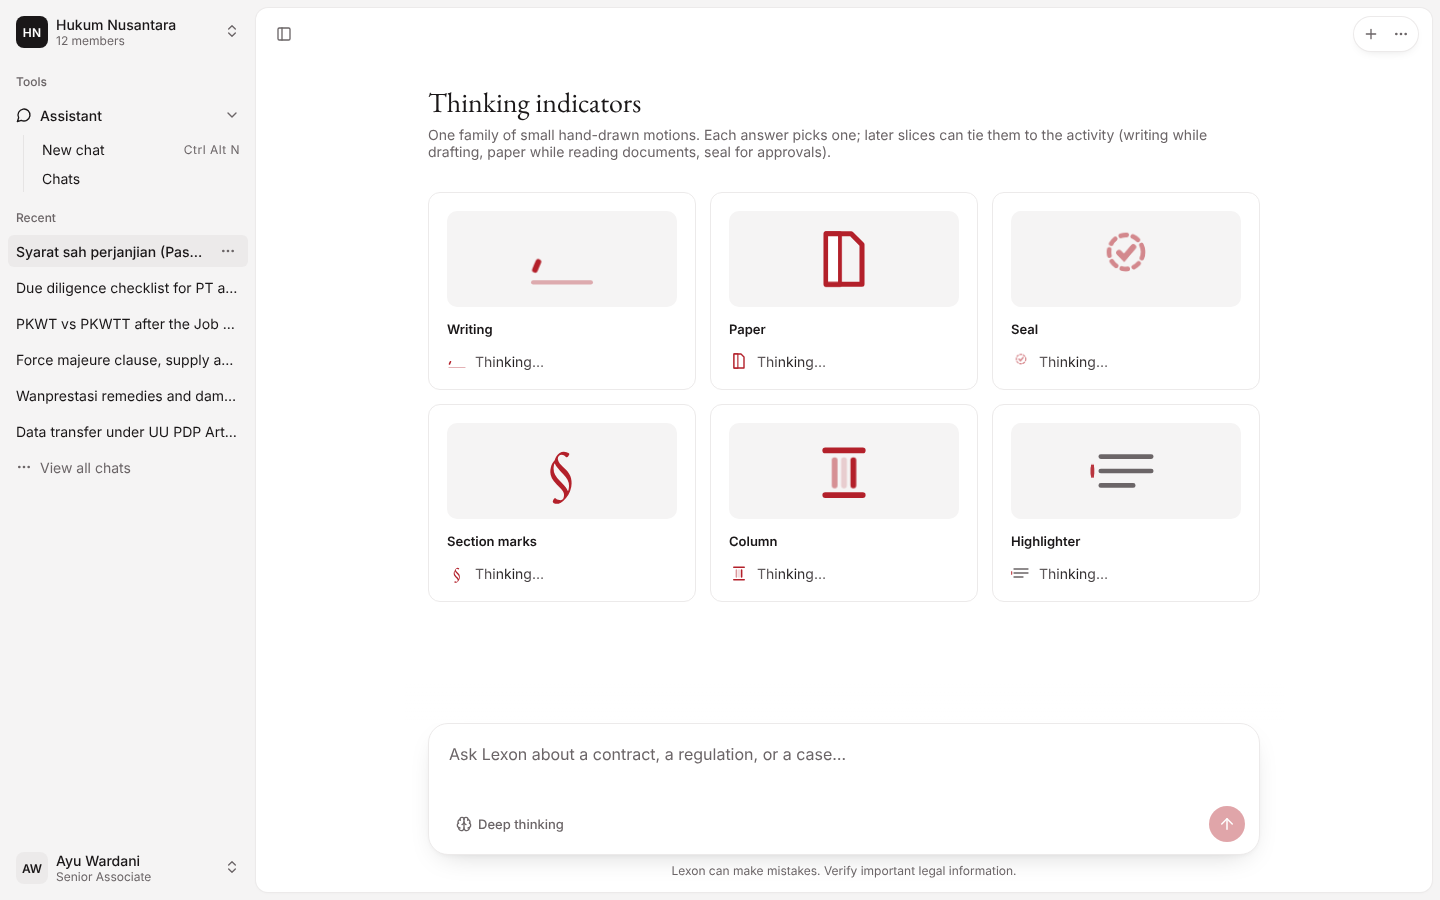
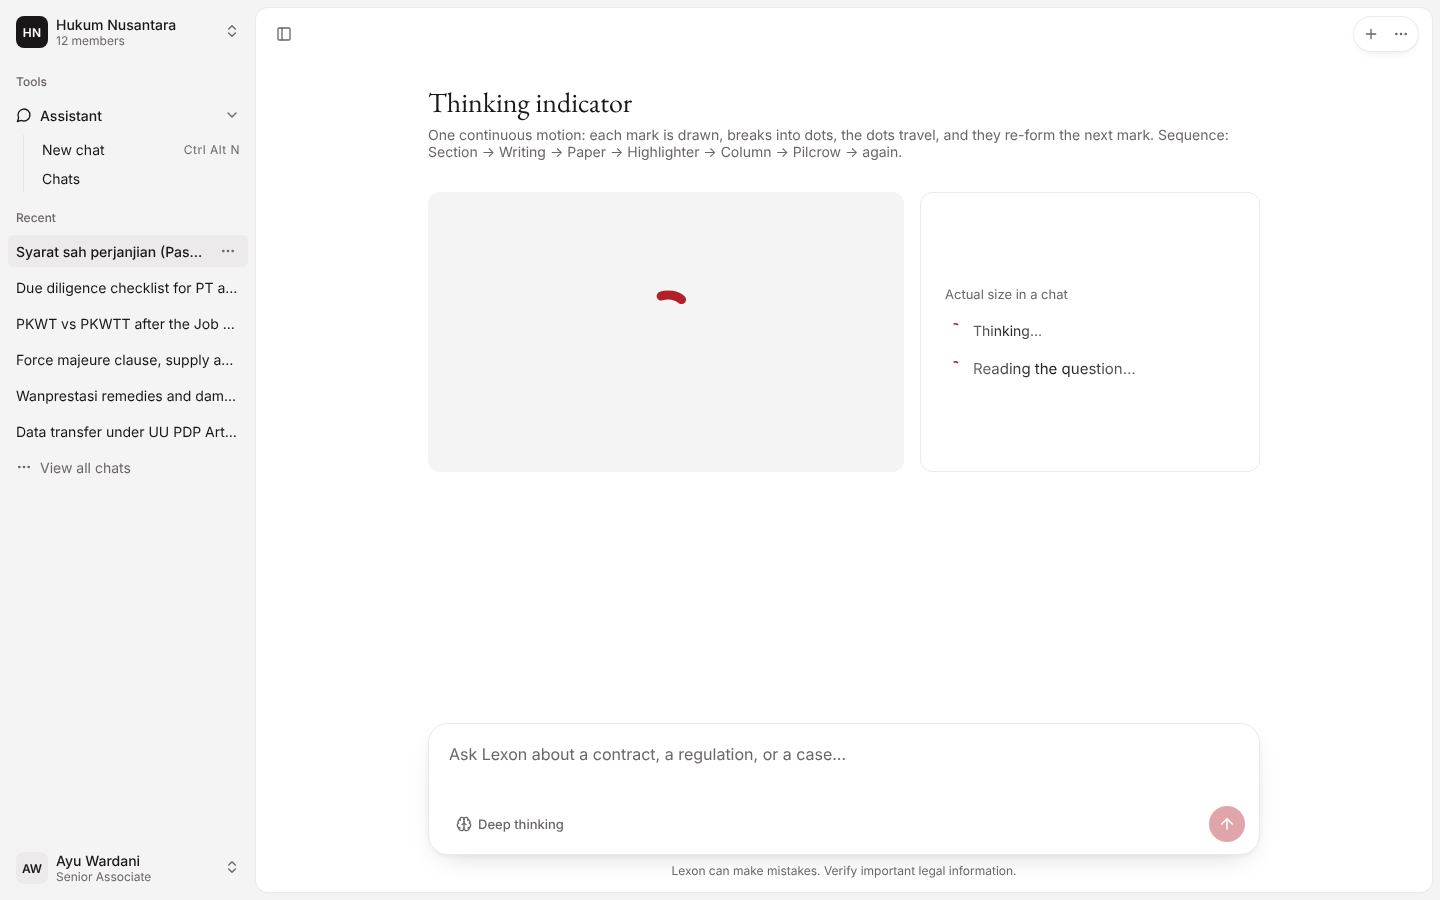
F4.1 prototype rev 7: morphing thinking indicator
Claude-Session: https://claude.ai/code/session_01XeskNDwAETUV7tAfJw72N6

diff --git a/design-drafts/f4.1-prototype/source/proto.src.html b/design-drafts/f4.1-prototype/source/proto.src.html
@@ -97,6 +97,11 @@ body.shot .stage{border-radius:0;box-shadow:none}
 @keyframes spin{to{transform:rotate(360deg)}}
 @keyframes dash{0%{stroke-dasharray:1 40;stroke-dashoffset:0}50%{stroke-dasharray:22 40;stroke-dashoffset:-6}100%{stroke-dasharray:22 40;stroke-dashoffset:-32}}
 
+
+/* ===== Lexon morphing loader: shapes dissolve into dots that travel and re-form the next shape ===== */
+.lq{display:inline-flex;width:20px;height:20px;flex:none;color:var(--redtext)}
+.lq.xl{width:120px;height:120px}
+.lq svg{width:100%;height:100%;overflow:visible}
 /* ===== Lexon loader family (owner request): hand-drawn feel, one per turn ===== */
 .lx{--c:var(--redtext);display:inline-flex;align-items:center;justify-content:center;width:20px;height:20px;flex:none;position:relative;color:var(--c)}
 .lx.xl{width:72px;height:72px}
@@ -263,6 +268,54 @@ function composer({deep=false,streaming=false,text='',mobile=false}={}){
  return `<div class="cw" ${mobile?'style="padding:10px 14px 12px"':''}><div class="comp"><label for="cmp" style="position:absolute;width:1px;height:1px;overflow:hidden;clip:rect(0 0 0 0)">Message</label><textarea id="cmp" rows="2" placeholder="${streaming?'Lexon is answering…':'Ask Lexon about a contract, a regulation, or a case…'}">${text}</textarea><div class="crow"><span style="position:relative;display:inline-flex"><button class="pill" aria-pressed="${deep}">${sv('brain')}Deep thinking</button>${deep?'<span class="tip" role="tooltip" style="top:40px;left:0">Takes longer and uses more of your budget</span>':''}</span>${send}</div></div><div class="disc">Lexon can make mistakes. Verify important legal information.</div></div>`;
 }
 
+
+const LQ_SCENES=[
+ {n:'Section',p:['M12.6 4.6c-1.4-1.3-4.8-1-4.8 1.2 0 2.7 5.6 2.5 5.6 5.3 0 1.5-1.4 2.3-2.9 2.3','M7.4 15.4c1.4 1.3 4.8 1 4.8-1.2 0-2.7-5.6-2.5-5.6-5.3 0-1.5 1.4-2.3 2.9-2.3'],draw:900},
+ {n:'Writing',p:['M2 16.5h16','M2.5 13c2-5 3.6-7.4 4.6-5.6.9 1.6-1 5-.1 5.6 1 .7 2.6-3.6 4-3.4 1.2.2.3 3 1.4 3.1 1.3.1 2.3-2.6 4.9-2.7'],dim:[0],draw:1200},
+ {n:'Paper',p:['M5 3h7l3 3v11H5z','M12 3v3h3','M7.5 9.2h5','M7.5 11.7h5','M7.5 14.2h3.5'],draw:1000},
+ {n:'Highlighter',p:['M3 6h14','M3 10h14','M3 14h9'],dim:[0,1,2],accent:'M3 10h14',draw:700},
+ {n:'Column',p:['M2.8 6.4 10 2.6l7.2 3.8','M3.6 7.6h12.8','M6.3 9.2v5.9','M10 9.2v5.9','M13.7 9.2v5.9','M4.3 16.3h11.4','M2.8 17.8h14.4'],shimmer:[2,3,4],draw:1000},
+ {n:'Pilcrow',p:['M14 3.6v12.8','M11 3.6v12.8','M14 3.6H9.6a3.3 3.3 0 0 0 0 6.6H11'],draw:800}
+];
+const NS='http://www.w3.org/2000/svg';
+function lqMount(el){
+  if(el.__lq) return; el.__lq=1;
+  const svg=document.createElementNS(NS,'svg'); svg.setAttribute('viewBox','0 0 20 20'); el.appendChild(svg);
+  const reduce=matchMedia('(prefers-reduced-motion: reduce)').matches;
+  const K=18, ease=t=>t<.5?4*t*t*t:1-Math.pow(-2*t+2,3)/2;
+  const build=(sc)=>{const g=document.createElementNS(NS,'g');g.setAttribute('fill','none');g.setAttribute('stroke','currentColor');g.setAttribute('stroke-linecap','round');g.setAttribute('stroke-linejoin','round');g.setAttribute('stroke-width','1.5');
+    const paths=sc.p.map((d,i)=>{const pa=document.createElementNS(NS,'path');pa.setAttribute('d',d);if(sc.dim&&sc.dim.includes(i))pa.setAttribute('stroke-opacity','.4');g.appendChild(pa);return pa;});
+    let acc=null; if(sc.accent){acc=document.createElementNS(NS,'path');acc.setAttribute('d',sc.accent);acc.setAttribute('stroke-width','3.8');acc.setAttribute('stroke-opacity','.35');g.appendChild(acc);}
+    svg.appendChild(g); return {g,paths,acc};};
+  const sample=(paths)=>{const L=paths.map(p=>p.getTotalLength());const tot=L.reduce((a,b)=>a+b,0);const pts=[];for(let k=0;k<K;k++){let d=(k+.5)/K*tot,i=0;while(d>L[i]&&i<L.length-1){d-=L[i];i++;}const q=paths[i].getPointAtLength(Math.min(d,L[i]));pts.push([q.x,q.y]);}return pts;};
+  const dots=[];for(let k=0;k<K;k++){const c=document.createElementNS(NS,'circle');c.setAttribute('r','0');c.setAttribute('fill','currentColor');svg.appendChild(c);dots.push(c);}
+  let idx=0, cur=build(LQ_SCENES[0]);
+  if(reduce){return;}
+  const anim=(dur,fn)=>new Promise(res=>{const t0=performance.now();const step=t=>{const k=Math.min(1,(t-t0)/dur);fn(k);if(k<1&&el.isConnected)requestAnimationFrame(step);else res();};requestAnimationFrame(step);});
+  const drawIn=(o,dur)=>{const L=o.paths.map(p=>p.getTotalLength());o.paths.forEach((p,i)=>{p.style.strokeDasharray=L[i];p.style.strokeDashoffset=L[i];});if(o.acc){const la=o.acc.getTotalLength();o.acc.style.strokeDasharray=la;o.acc.style.strokeDashoffset=la;}
+    const n=o.paths.length;return anim(dur,k=>{o.paths.forEach((p,i)=>{const s0=i/n*.45,kk=Math.max(0,Math.min(1,(k-s0)/(1-.45+.0001)));p.style.strokeDashoffset=L[i]*(1-ease(kk));});});};
+  const hold=async(o,sc)=>{ if(o.acc){const la=o.acc.getTotalLength();await anim(700,k=>{o.acc.style.strokeDashoffset=la*(1-ease(k));});await anim(250,()=>{});}
+    else if(sc.shimmer){await anim(1100,k=>{sc.shimmer.forEach((i,j)=>{const ph=(k*2-j*.25);o.paths[i].setAttribute('stroke-opacity',String(.35+.65*Math.max(0,Math.sin(Math.PI*Math.max(0,Math.min(1,ph))))));});});sc.shimmer.forEach(i=>o.paths[i].setAttribute('stroke-opacity','1'));}
+    else await anim(650,()=>{}); };
+  (async function loop(){
+    await drawIn(cur,LQ_SCENES[0].draw);
+    while(el.isConnected){
+      const sc=LQ_SCENES[idx]; await hold(cur,sc);
+      const a=sample(cur.paths); const nidx=(idx+1)%LQ_SCENES.length; const nsc=LQ_SCENES[nidx]; const nxt=build(nsc); nxt.g.style.opacity='0'; const b=sample(nxt.paths); svg.appendChild(nxt.g);
+      dots.forEach(d=>svg.appendChild(d));
+      // dissolve: lines fade while dots appear on them
+      await anim(220,k=>{cur.g.style.opacity=String(1-k);dots.forEach((d,i)=>{d.setAttribute('cx',a[i][0]);d.setAttribute('cy',a[i][1]);d.setAttribute('r',String(.85*k));});});
+      cur.g.remove();
+      // travel: dots fly on gentle arcs, staggered
+      await anim(720,k=>{dots.forEach((d,i)=>{const s0=i/K*.35,kk=ease(Math.max(0,Math.min(1,(k-s0)/.65)));const mx=(a[i][0]+b[i][0])/2+(i%2?2.2:-2.2),my=(a[i][1]+b[i][1])/2+(i%3-1)*2.2;const x=(1-kk)*(1-kk)*a[i][0]+2*(1-kk)*kk*mx+kk*kk*b[i][0],y=(1-kk)*(1-kk)*a[i][1]+2*(1-kk)*kk*my+kk*kk*b[i][1];d.setAttribute('cx',x);d.setAttribute('cy',y);});});
+      // reform: next shape draws through the dots, dots shrink
+      nxt.g.style.opacity='1'; const di=drawIn(nxt,nsc.draw); await anim(Math.min(500,nsc.draw),k=>{dots.forEach(d=>d.setAttribute('r',String(.85*(1-k))));}); await di;
+      cur=nxt; idx=nidx;
+    }
+  })();
+}
+const lq=(xl=false)=>`<span class="lq${xl?' xl':''}" aria-hidden="true"></span>`;
+new MutationObserver(()=>document.querySelectorAll('.lq').forEach(lqMount)).observe(document.getElementById('root'),{childList:true,subtree:true});
 const LXL={
  pen:`<svg viewBox="0 0 20 20" fill="none" stroke="currentColor" stroke-linecap="round" stroke-linejoin="round"><path class="base" d="M2 16.5h16" stroke-width="1.2"/><path class="ink" d="M2.5 13c2-5 3.6-7.4 4.6-5.6.9 1.6-1 5-.1 5.6 1 .7 2.6-3.6 4-3.4 1.2.2.3 3 1.4 3.1 1.3.1 2.3-2.6 4.9-2.7" stroke-width="1.6"/></svg>`,
  page:`<svg viewBox="0 0 20 20" fill="none" stroke="currentColor" stroke-linecap="round" stroke-linejoin="round" stroke-width="1.4"><path d="M5 3h7l3 3v11H5z"/><path class="ln" d="M7.5 9h5"/><path class="ln" d="M7.5 11.5h5"/><path class="ln" d="M7.5 14h3.5"/><path class="flip" d="M5 3h5v14H5z" fill="var(--bg)"/></svg>`,
@@ -283,8 +336,8 @@ const crumbT=`<span>Assistant</span>${sv('right',14)}<b>Syarat sah perjanjian (P
 function thread(S){
  let b='',c=composer(),toast='';
  switch(S){
-  case 'thinking': b=um(Q1)+`<div class="am"><div class="who">${lxl('glyph')}<span class="shim">Thinking…</span></div></div>`; c=composer({streaming:true}); break;
-  case 'loaders': b=`<div style="display:flex;flex-direction:column;gap:6px"><h2 style="margin:0;font-family:var(--serif);font-weight:400;font-size:28px">Thinking indicators</h2><p style="margin:0;color:var(--mfg)">One family of small hand-drawn motions. Each answer picks one; later slices can tie them to the activity (writing while drafting, paper while reading documents, seal for approvals).</p></div><div style="display:grid;grid-template-columns:repeat(3,1fr);gap:14px">${Object.keys(LXL).map(k=>`<div class="tcard2" style="padding:18px;align-items:flex-start;gap:14px"><div style="display:flex;align-items:center;justify-content:center;width:100%;height:96px;background:var(--muted);border-radius:10px">${lxl(k,true)}</div><div style="font-size:13px;font-weight:600">${LXN[k]}</div><div class="who">${lxl(k)}<span class="shim">Thinking…</span></div></div>`).join('')}</div>`; break;
+  case 'thinking': b=um(Q1)+`<div class="am"><div class="who">${lq()}<span class="shim">Thinking…</span></div></div>`; c=composer({streaming:true}); break;
+  case 'loaders': b=`<div style="display:flex;flex-direction:column;gap:6px"><h2 style="margin:0;font-family:var(--serif);font-weight:400;font-size:28px">Thinking indicator</h2><p style="margin:0;color:var(--mfg)">One continuous motion: each mark is drawn, breaks into dots, the dots travel, and they re-form the next mark. Sequence: ${LQ_SCENES.map(x=>x.n).join(' → ')} → again.</p></div><div style="display:grid;grid-template-columns:1.4fr 1fr;gap:16px"><div class="tcard2" style="align-items:center;justify-content:center;height:280px;background:var(--muted);border:0">${lq(true)}</div><div class="tcard2" style="justify-content:center;gap:18px;padding:24px"><div style="font-size:13px;color:var(--mfg)">Actual size in a chat</div><div class="who">${lq()}<span class="shim">Thinking…</span></div><div class="who" style="font-size:15px">${lq()}<span class="shim">Reading the question…</span></div></div></div>`; break;
   case 'streaming': b=um(Q1)+`<div class="am">${who('Thought for 8 seconds',false,true)}<p>Pasal 1320 KUHPerdata menetapkan empat syarat sahnya perjanjian:</p><ol><li><b>Kesepakatan</b> para pihak yang mengikatkan dirinya.</li><li><b>Kecakapan</b> untuk membuat suatu<span class="caret"></span></li></ol></div>`; c=composer({streaming:true}); break;
   case 'reasoning': b=um(Q1)+`<div class="am">${who('Thought for 14 seconds',true)}${SUMMARY}${A1}${abar()}</div>`; break;
   case 'feedback': b=um(Q1)+`<div class="am">${who('Thought for 14 seconds',false)}${A1}${abar({fb:'up',copied:true})}</div>`; toast=`<div class="toast" role="status">${sv('check')}<span>Thanks for your feedback.</span></div>`; break;

diff --git a/design-drafts/f4.1-prototype/README.md b/design-drafts/f4.1-prototype/README.md
@@ -39,3 +39,12 @@ UI and 72px preview (state `loaders`): Writing (signature stroke), Paper (page t
 Seal (stamp + inked ring, brand "cap"), Section marks (§ ¶ ⁂ † morph in EB Garamond),
 Column (L's three pillars), Highlighter (stabilo over lines). One per turn; later slices may
 tie them to activity (drafting, reading documents, approvals). Reduced motion: static frame.
+
+## Revision 7 (2026-11-13): one morphing thinking indicator
+PO: remove † and Seal, better Column, and transitions between marks instead of fade out/in.
+Implemented as one continuous sequence (SVG + small JS, ~13 s cycle):
+Section § → Writing → Paper → Highlighter → Column (courthouse: pediment, architrave,
+three pillars catching light, two steps) → Pilcrow ¶ → again. Each mark draws itself,
+breaks into 18 dots, the dots travel on staggered arcs to points sampled on the next mark,
+and the next mark draws through them. Reduced motion: static §. `screens/fm-strip.png`
+shows 24 frames at 0.5 s.
